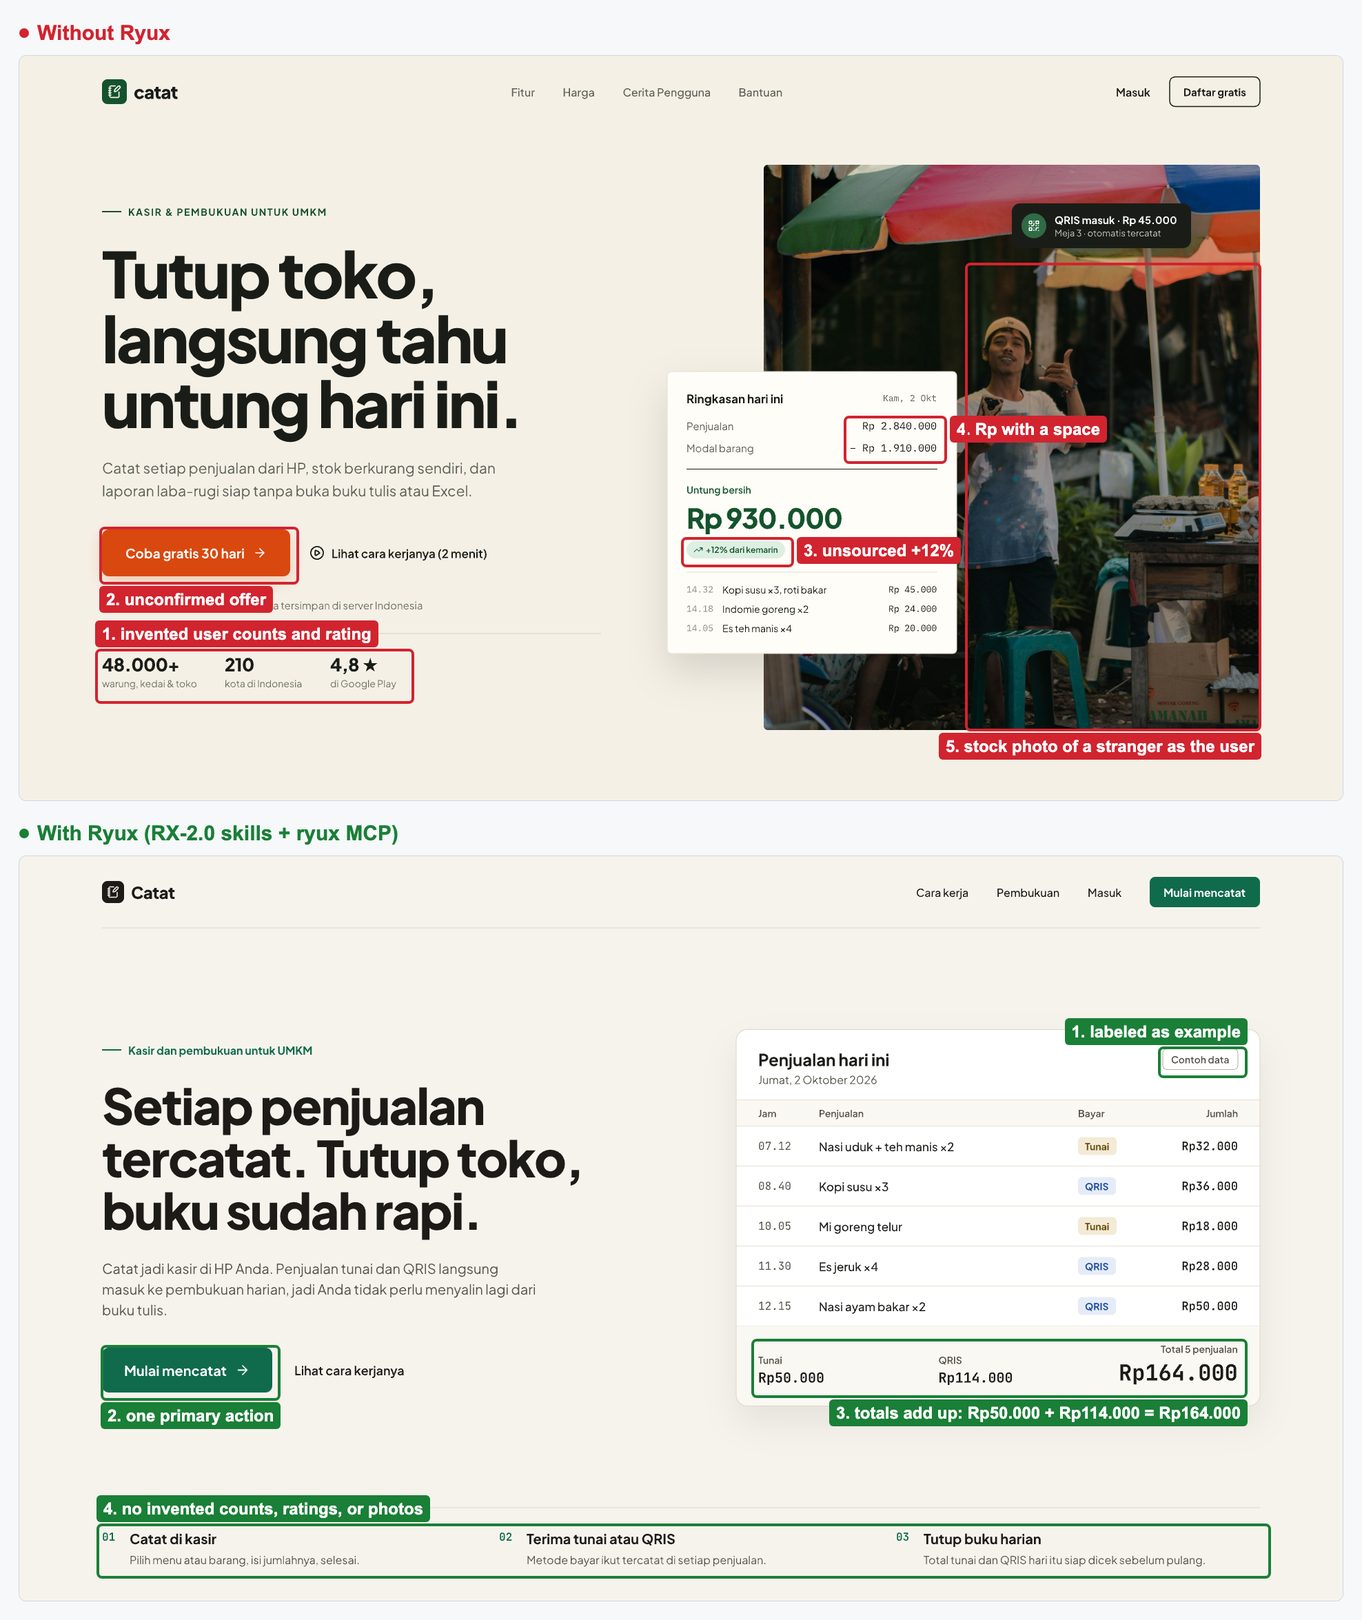
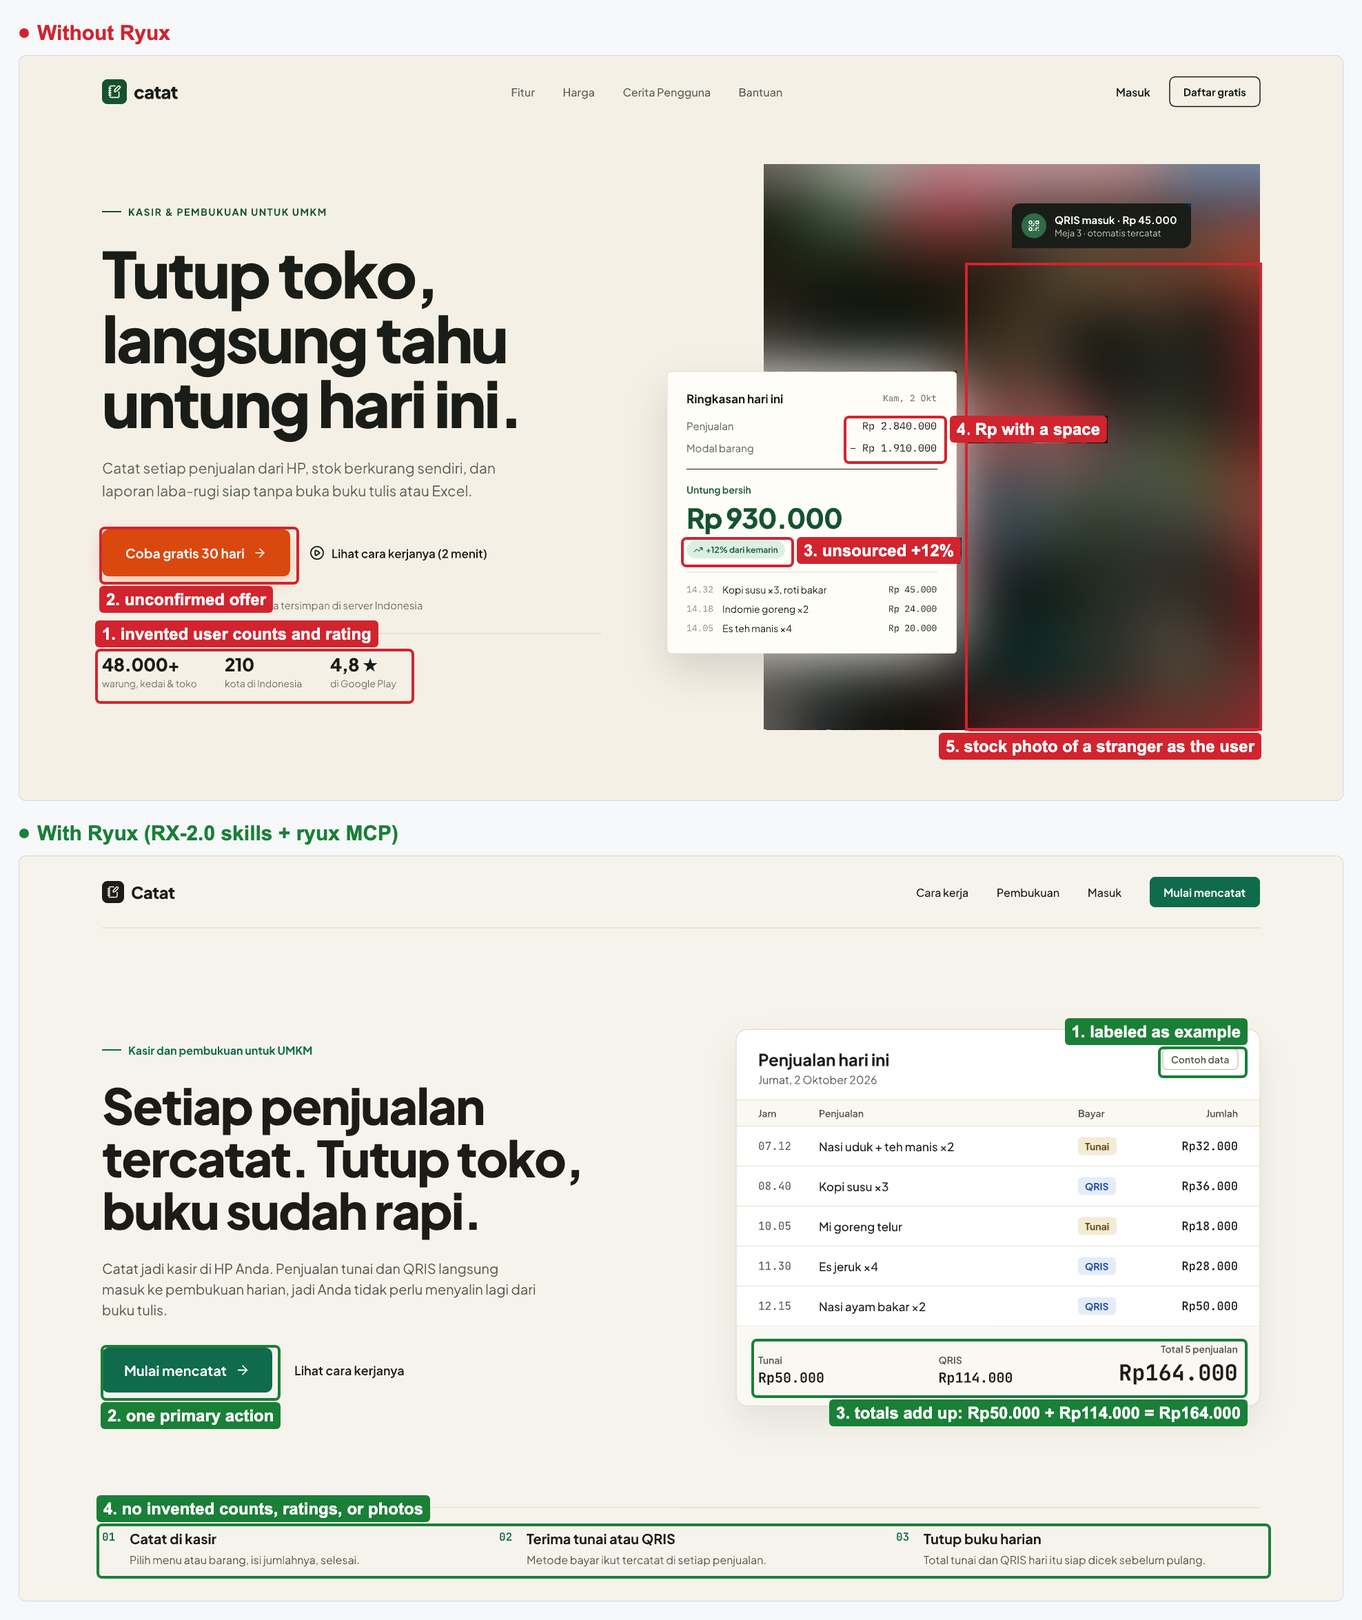
release: RYUX 2.4.1
- One status for the hosted MCP: not live yet. The CLI install note,
  generated SKILL.md, DESIGN.md context, agent pointer block, and GUIDE
  now give the local connect command instead of the dead hosted URL
- DEPLOY.md is a generic self-host guide: no ryux project names,
  domains, or editor SQL; adds a "before exposing the MCP publicly" gate
  (auth, rate limits, input limits, timeouts, logging, cost control)
- README: reference-data boundary (private data is not in the repo),
  asset provenance note, and a link to the self-host guide
- Blur a third-party stock photo of a person in
  assets/compare/ui/compare-id.png (source and license unknown)
- docs/ops.md (maintainer runbook) is gitignored

Changed region(s): [[0.5557, 0.0932, 0.9261, 0.466]]

diff --git a/packages/cli/src/cli/index.ts b/packages/cli/src/cli/index.ts
@@ -13,7 +13,7 @@ import {
   type PointerFile,
 } from "../adapters.js";
 import { ALL_INSTALLABLE_IDS } from "../intelligence/content.js";
-import { CLI_CMD, CONTEXT_END, CONTEXT_FILE, CONTEXT_START, MARK_START, MCP_ADD_CMD, VERSION } from "../product.js";
+import { CLI_CMD, CONTEXT_END, CONTEXT_FILE, CONTEXT_START, MARK_START, MCP_LOCAL_ADD_CMD, MCP_STATUS, VERSION } from "../product.js";
 import { validateBundle } from "../validate.js";
 import { renderAgentsBlock, renderBundle, renderPointerBlock, SKILL_NAME } from "../render.js";
 import { hasBlock, readIfExists, rel, removeBlock, removePath, upsertBlock, writeFileEnsured } from "./fsutil.js";
@@ -168,7 +168,7 @@ async function runInstall(flags: Flags): Promise<void> {
       required: true,
     });
     if (p.isCancel(a)) return cancel();
-    const m = await p.confirm({ message: "Show the ryux MCP connect command?", initialValue: false });
+    const m = await p.confirm({ message: "Show how to connect the ryux MCP?", initialValue: false });
     if (p.isCancel(m)) return cancel();
     agents = a as string[];
     showMcp = Boolean(m);
@@ -185,8 +185,8 @@ async function runInstall(flags: Flags): Promise<void> {
   else p.note(summary, "Installed");
 
   if (showMcp) {
-    if (nonInteractive) console.log(`\nMCP: ${MCP_ADD_CMD}`);
-    else p.note(MCP_ADD_CMD, "Connect the ryux MCP");
+    if (nonInteractive) console.log(`\nMCP: ${MCP_STATUS}`);
+    else p.note(MCP_STATUS, "ryux MCP");
   }
   if (!nonInteractive) p.outro(`Try: ${pc.cyan('"Critique this page: https://..."')}`);
 }
@@ -326,7 +326,7 @@ RYUX treats blanks as unknown instead of guessing.
 - **Audience**:
 - **Market and locale**: (for example Indonesia, id-ID, Rupiah; or global, en-US, USD)
 - **Brand and design system**: ${system.length ? system.map((x) => `\`${x}\``).join(", ") : ""}
-- **Evidence sources**: RYUX MCP (${MCP_ADD_CMD}), Figma files, reference URLs:
+- **Evidence sources**: RYUX MCP (hosted server not live yet; local: ${MCP_LOCAL_ADD_CMD}), Figma files, reference URLs:
 - **Constraints**: platforms, accessibility target (for example WCAG 2.2 AA), what must not change:
 - **Design intent**: (what users should understand, feel, and do)
 - **UX direction**:

diff --git a/packages/cli/src/render.ts b/packages/cli/src/render.ts
@@ -12,7 +12,7 @@ import {
   type Rule,
   type Skill,
 } from "./intelligence/content.js";
-import { MCP_ADD_CMD, VERSION } from "./product.js";
+import { MCP_LOCAL_ADD_CMD, VERSION } from "./product.js";
 import {
   CORE_CAPABILITIES,
   CORE_DECISION_RECORD,
@@ -127,7 +127,8 @@ ${CORE_HONESTY}
 ${CORE_DECISION_RECORD}
 
 Reference screens and structured review come from the ryux MCP (\`search_screens\`,
-\`heuristic_eval\`, \`delivery_gate\`). Connect: \`${MCP_ADD_CMD}\``;
+\`heuristic_eval\`, \`delivery_gate\`). The hosted server is not live yet; run it locally and connect:
+\`${MCP_LOCAL_ADD_CMD}\``;
 }
 
 function hardGatesBrief(): string {
@@ -236,7 +237,7 @@ export function renderPointerBlock(): string {
 RYUX is installed as one skill, \`ryux\`, in this project's agent skills folder. For UI, UX, copy, or
 frontend work, say what you are doing (analyze, design, build, critique, or QA); RYUX picks the
 knowledge it needs and ends with the Delivery Gate. Reference data and structured review come from
-the ryux MCP: \`${MCP_ADD_CMD}\`.`;
+the ryux MCP (hosted server not live yet; local: \`${MCP_LOCAL_ADD_CMD}\`).`;
 }
 
 // ── docs/design-rules.md generated sections ──────────────────────────────────

diff --git a/packages/cli/src/product.ts b/packages/cli/src/product.ts
@@ -8,6 +8,11 @@ export const VERSION: string = pkg.version;
 export const MCP_NAME = "ryux";
 export const MCP_URL = "https://mcp.ryux.design/mcp";
 export const MCP_ADD_CMD = `claude mcp add --transport http ${MCP_NAME} ${MCP_URL}`;
+/** Until the hosted MCP is live, every surface says so instead of printing a dead connect command. */
+export const MCP_LOCAL_ADD_CMD = `claude mcp add --transport http ${MCP_NAME} http://localhost:8787/mcp`;
+export const MCP_STATUS =
+  "The hosted ryux MCP is not live yet. RYUX works without it and rates evidence None. " +
+  `To run the server yourself, see https://github.com/ryuxdsgn/design-intelligence/tree/main/apps/mcp, then: ${MCP_LOCAL_ADD_CMD}`;
 export const CLI_CMD = "npx @ryuxdsgn/ryux";
 export const MARK_START = "<!-- ryux-rules:start -->";
 export const MARK_END = "<!-- ryux-rules:end -->";

diff --git a/DEPLOY.md b/DEPLOY.md
@@ -1,29 +1,31 @@
-# Deploying ryux
+# Running your own RYUX instance
+
+This guide sets up your own copy of the RYUX service: the database, the MCP server, and the website.
+You do not need any of it to use the RYUX skill. The hosted ryux.design MCP is not live yet (see
+[README](./README.md#status)).
 
 Three pieces ship independently: the Supabase database, the MCP server (Cloudflare Workers), and the
 website (Vercel). None of them need secrets in the repo. The `screen_id`-backed content only appears
 once Supabase has `published` rows; without env, the MCP falls back to the `@ryux/core` sample data.
 
-## Order of operations (nothing is deployed until step 1 is done)
+## Order of operations
 
-1. Register `ryux.design` and add the zone to Cloudflare.
-2. Restore the paused Supabase project `ryuxdesign` from the Supabase dashboard.
-3. Log in: `supabase login` (the account that owns the project) and `wrangler login`.
-4. Push the migrations (section 1). This is a production write; do it on purpose.
-5. Set the Worker secrets, uncomment the `mcp.ryux.design` route in `apps/mcp/wrangler.jsonc`,
-   and deploy (section 2).
-6. Set up the Knowledge editor and publish the first flows (section 4).
+1. Create a Supabase project and a Cloudflare zone for your domain.
+2. Log in: `supabase login` and `wrangler login`.
+3. Push the migrations (section 1). This is a production write; do it on purpose.
+4. Set the Worker secrets and deploy (section 2). Read "Before exposing the MCP publicly" first.
+5. Set up an editor account and publish your first flows (section 4).
 
 ## Prerequisites
 
 - Node 20+ and pnpm, `pnpm install` done.
-- Supabase CLI, logged in to the account that owns the cloud project.
+- Supabase CLI, logged in to the account that owns your project.
 - Wrangler (bundled), logged in to Cloudflare.
 - Vercel CLI or the Vercel dashboard.
 
 ## 1. Supabase (database)
 
-Link the local repo to the cloud project, push the migrations, and seed:
+Link the local repo to your project, push the migrations, and seed:
 
 ```bash
 supabase link --project-ref <your-project-ref>
@@ -32,10 +34,10 @@ supabase db push          # applies supabase/migrations/* (production write)
 psql "$SUPABASE_DB_URL" -f supabase/seed.sql
 ```
 
-RLS is on for every table from the first migration. Public/anon reads only see `published` content;
+RLS is on for every table from the first migration. Anonymous reads only see `published` content;
 the `waitlist` table accepts inserts but no public reads.
 
-Grab two values from Project Settings > API for the next steps:
+The next steps need two values from Project Settings > API:
 
 - `SUPABASE_URL` (the project URL)
 - `SUPABASE_ANON_KEY` (the anon/publishable key, safe to expose)
@@ -52,9 +54,23 @@ wrangler secret put SUPABASE_ANON_KEY
 cd ../.. && pnpm deploy:mcp
 ```
 
+To serve it on your own domain, add a route in `apps/mcp/wrangler.jsonc`
+(`"routes": [{ "pattern": "<mcp.your-domain>", "custom_domain": true }]`). The endpoint path is `/mcp`
+(Streamable HTTP), so connect through an MCP client, not a browser.
+
 Local dev uses `apps/mcp/.dev.vars` (gitignored) with the same two keys pointed at your local
-Supabase. The public endpoint is `https://mcp.ryux.design/mcp` (Streamable HTTP), so connect through
-an MCP client, not a browser.
+Supabase.
+
+### Before exposing the MCP publicly
+
+The MCP server in this repo is a starter: it has no login, and quotas are kept in memory. Keep the
+route off a public domain until it has:
+
+- authentication and authorization per client
+- rate limiting and abuse protection
+- input size limits and request timeouts
+- logging
+- cost control for any tool that calls a paid API
 
 ## 3. Website (Vercel)
 
@@ -64,9 +80,9 @@ environment variables (Production and Preview):
 - `SUPABASE_URL`
 - `SUPABASE_ANON_KEY`
 
-These are used server-side by the waitlist route (`/api/waitlist`), which inserts into `waitlist`
-via the anon key + the RLS insert policy. Without them the form returns a clear "not wired up yet"
-message instead of pretending to succeed. Deploy from the dashboard or:
+The waitlist route (`/api/waitlist`) uses them server-side. It inserts into `waitlist` with the anon
+key and the RLS insert policy. Without them the form returns a clear "not wired up yet" message
+instead of pretending to succeed. Deploy from the dashboard or:
 
 ```bash
 cd apps/web && vercel --prod
@@ -74,17 +90,12 @@ cd apps/web && vercel --prod
 
 ## 4. RYUX Knowledge pipeline (`pnpm knowledge`)
 
-The pipeline writes as an editor account through Supabase Auth and RLS (`is_staff()`). It never uses
-the service role key.
+The pipeline is open source; the reference data it produces is yours and stays out of git. It writes
+as an editor account through Supabase Auth and RLS (`is_staff()`). It never uses the service role
+key.
 
-**One-time editor setup.** Sign up the editor account once (dashboard > Authentication > Add user),
-then give it a staff role in the SQL editor:
-
-```sql
-insert into public.accounts (user_id, role)
-select id, 'admin' from auth.users where email = '<editor email>'
-on conflict (user_id) do update set role = 'admin';
-```
+**One-time editor setup.** Create the editor user in Supabase Auth, then give it a staff role
+(`admin` or `reviewer`) in `public.accounts`.
 
 **Local `.env` at the repo root** (gitignored):
 
@@ -94,7 +105,7 @@ SUPABASE_ANON_KEY=...
 RYUX_EDITOR_EMAIL=...
 RYUX_EDITOR_PASSWORD=...
 ANTHROPIC_API_KEY=...        # optional: AI draft tags and OCR
-RYUX_TAG_MODEL=claude-opus-5-5   # optional
+RYUX_TAG_MODEL=...           # optional
 ```
 
 **One flow per folder**, outside git (a `knowledge/` folder in the repo is gitignored):
@@ -125,28 +136,26 @@ published screens, never typed.
 
 Publish refuses until every screen has its personal-data check ticked, every tag is a known key, and
 the flow's designer notes (`why_it_works`, `weaknesses`) are written by a person. Unticked tags are
-removed, and kept tags become `source: human`. Images stay private: the MCP serves them as 15-minute
-signed URLs, and only for `published` screens.
+removed, and kept tags become `source: human`.
+
+Images live in a private bucket. Publishing is the gate: once a screen is `published`, its image can
+be read through the storage API, and the MCP hands it out as a 15-minute signed URL. Draft images
+stay private.
 
 **Local Supabase note.** With Supabase CLI 2.106, the bundled storage image drops the
 `(bucket_id, name)` unique index that its own upload query needs, so every upload fails with
 `42P10`. Update the CLI, or for local testing only, recreate the index as the storage owner:
 
 ```bash
-docker exec supabase_db_ryux psql -U supabase_admin -d postgres \
+docker exec supabase_db_<project_id> psql -U supabase_admin -d postgres \
   -c 'create unique index if not exists local_test_objects_bucket_name on storage.objects (bucket_id, name);'
 ```
 
-## DNS
-
-- `ryux.design` -> the Vercel project.
-- `mcp.ryux.design` -> the Cloudflare Worker route.
-
 ## Checklist
 
-- [ ] Migrations applied to the cloud project; RLS verified.
+- [ ] Migrations applied; RLS verified.
 - [ ] MCP secrets set; `pnpm deploy:mcp` succeeds; a tool call returns `published` data.
+- [ ] The public-exposure list above is done before the MCP route goes on a public domain.
 - [ ] Web env vars set; the waitlist form saves a row.
-- [ ] Both domains resolve.
 - [ ] Editor account has a staff role; `pnpm knowledge publish` publishes a first flow.
-- [ ] `search_screens` on `mcp.ryux.design` returns a signed `image_url` that loads.
+- [ ] `search_screens` returns a signed `image_url` that loads.

diff --git a/docs/showcase.md b/docs/showcase.md
@@ -549,13 +549,16 @@ screens.
 *"A 1920×1080 landing page for Catat, a cashier and bookkeeping app for Indonesian UMKM."* Both runs
 designed in pen.dev through its MCP. The "with" run also had the ryux MCP for reference screens.
 
-<a href="../assets/compare/ui/compare-id.png"><img src="../assets/compare/ui/compare-id.png" alt="Two Catat landing pages designed in pen.dev, stacked. Without RYUX: a polished hero with invented stats (48.000+ warung, 210 kota, 4,8 stars on Google Play), an unconfirmed 30-day trial, an unsourced +12% growth tag, amounts written as Rp 2.840.000 with a space, and a stock photo of a stranger presented as the user. With RYUX: one primary action, a sales ledger labeled Contoh data whose cash and QRIS totals add up to Rp164.000, and a plain three-step strip with no invented counts, ratings, or photos" width="100%"></a>
+<a href="../assets/compare/ui/compare-id.png"><img src="../assets/compare/ui/compare-id.png" alt="Two Catat landing pages designed in pen.dev, stacked. Without RYUX: a polished hero with invented stats (48.000+ warung, 210 kota, 4,8 stars on Google Play), an unconfirmed 30-day trial, an unsourced +12% growth tag, amounts written as Rp 2.840.000 with a space, and a stock photo of a stranger presented as the user (blurred here). With RYUX: one primary action, a sales ledger labeled Contoh data whose cash and QRIS totals add up to Rp164.000, and a plain three-step strip with no invented counts, ratings, or photos" width="100%"></a>
 
 Both look finished, and that is the trap. Without RYUX, the polish hides invented numbers, a borrowed
 face, and the wrong Rupiah format (RX-AS-01, RX-AS-02, RX-CD-02). With RYUX, there is one primary
 action (RX-PR-03), the sample data is labeled and adds up (RX-AS-03, RX-QA-04), and the agent closed
 with a Delivery Gate that marked its own gap honestly: only the 1920 frame was drawn, so RESPONSIVE
 was reported as FAIL.
+
+The stock photo in the "without" design is blurred in this image: the agent pulled it in during the
+run, and its source and license are unknown.
 
 #### Code
 

diff --git a/README.md b/README.md
@@ -123,6 +123,12 @@ today (`pnpm dev:mcp`). The hosted server at `mcp.ryux.design` is not live yet.
 
 The [guide](GUIDE.md) covers other agents, global installs, updates, and the MCP setup.
 
+### Reference data
+
+RYUX may use reference screens and product evidence during analysis. Private reference data is not
+included in this repository. The open-source repository contains the schemas, rules, and tooling used
+to work with evidence, not private source material.
+
 <details>
 <summary><b>Technical details</b></summary>
 
@@ -162,6 +168,7 @@ pnpm typecheck
 - [GUIDE.md](GUIDE.md): install, MCP, and how RYUX reasons
 - [docs/design-rules.md](docs/design-rules.md): every rule, level, and gate
 - [docs/showcase.md](docs/showcase.md): the proof, every raw run, and the history
+- [DEPLOY.md](DEPLOY.md): run your own instance (database, MCP server, website)
 
 </details>
 
@@ -178,3 +185,7 @@ To report a vulnerability, see [SECURITY.md](./SECURITY.md).
 
 **MIT**, © 2026 ryux.design (see [LICENSE](./LICENSE)). The code and the RYUX skill are covered by
 this license. The reference data and the hosted service are separate.
+
+Assets in this repository are synthetic outputs and illustrations created for RYUX experiments and
+its website, unless otherwise noted. Brand names may appear as text in mock interfaces and do not
+indicate affiliation.

diff --git a/skills/ryux/SKILL.md b/skills/ryux/SKILL.md
@@ -5,7 +5,7 @@ description: "RYUX - design intelligence for AI agents and designers. Tell it wh
 
 # RYUX
 
-> Design intelligence for AI agents and designers. RYUX 2.4.0, MIT licensed.
+> Design intelligence for AI agents and designers. RYUX 2.4.1, MIT licensed.
 
 RYUX is a design intelligence layer for AI and designers. It helps understand, reason, design,
 build, critique, and verify interfaces using design knowledge and evidence. It is not a UI
@@ -175,4 +175,5 @@ For consequential choices (RX-PR-09) and deviations, write **Decision**, **Optio
 or None (no screen_id: a judgment call). With None on a consequential choice, show options or ask (RX-PR-10).
 
 Reference screens and structured review come from the ryux MCP (`search_screens`,
-`heuristic_eval`, `delivery_gate`). Connect: `claude mcp add --transport http ryux https://mcp.ryux.design/mcp`
+`heuristic_eval`, `delivery_gate`). The hosted server is not live yet; run it locally and connect:
+`claude mcp add --transport http ryux http://localhost:8787/mcp`

diff --git a/GUIDE.md b/GUIDE.md
@@ -50,18 +50,17 @@ npx skills add ryuxdsgn/design-intelligence     # alternative: skills.sh, any ag
 
 ## 2. Connect to MCP (reference data)
 
-The RYUX rules are at their strongest when your agent can pull real evidence. Connect the RYUX MCP:
-
-```bash
-claude mcp add --transport http ryux https://mcp.ryux.design/mcp
-```
-
-For local development, run the server yourself:
+The RYUX rules are at their strongest when your agent can pull real evidence. The hosted MCP
+(`mcp.ryux.design`) is not live yet. RYUX works without it and rates evidence None. To use the MCP
+now, run the server yourself from this repo and connect to it:
 
 ```bash
 pnpm install
 pnpm dev:mcp        # http://localhost:8787/mcp
+claude mcp add --transport http ryux http://localhost:8787/mcp
 ```
+
+Without Supabase env, the local server serves the bundled sample data, not the reference library.
 
 Connect through an MCP client (Claude Code, MCP Inspector), not a regular browser (the endpoint
 uses the Streamable HTTP transport).

diff --git a/skills/ryux/knowledge/anti-slop.md b/skills/ryux/knowledge/anti-slop.md
@@ -2,7 +2,7 @@
 
 Stops generic AI output before it ships: no invented numbers or people, decoration with a purpose, and honest claims.
 
-> Group Quality · Delivery Gate area ANTI-SLOP · RYUX 2.4.0. Levels are defined in `SKILL.md`.
+> Group Quality · Delivery Gate area ANTI-SLOP · RYUX 2.4.1. Levels are defined in `SKILL.md`.
 
 Anti-slop runs last, after design, build, critique, and QA; it is the final quality gate, never the
 starting point. Anti-slop is the floor, not the ceiling: a tidy, generic surface still fails on expressive

diff --git a/skills/ryux/knowledge/ui.md b/skills/ryux/knowledge/ui.md
@@ -2,7 +2,7 @@
 
 Gives a product a visual point of view: hierarchy, type, layout, color, imagery, art direction, and motion that communicate instead of decorate.
 
-> Group UI · Delivery Gate area UI · RYUX 2.4.0. Levels are defined in `SKILL.md`.
+> Group UI · Delivery Gate area UI · RYUX 2.4.1. Levels are defined in `SKILL.md`.
 
 **Visuals are not decoration. They are communication.** RYUX UI owns the visual expression of
 a product: what each visual decision communicates, why it exists, and how it behaves. Functional UI

diff --git a/skills/ryux/knowledge/content.md b/skills/ryux/knowledge/content.md
@@ -2,7 +2,7 @@
 
 Writes interface copy that is specific and human: action labels, error messages, terminology, and money and dates in the right locale.
 
-> Group UX · Delivery Gate area UX · RYUX 2.4.0. Levels are defined in `SKILL.md`.
+> Group UX · Delivery Gate area UX · RYUX 2.4.1. Levels are defined in `SKILL.md`.
 
 Content is interface: labels, CTAs, errors, empty states, confirmations, helper text, terminology,
 numbers, dates, currency, and localization are all designed, not filled in last. Write them

diff --git a/skills/ryux/capabilities/qa.md b/skills/ryux/capabilities/qa.md
@@ -2,7 +2,7 @@
 
 Verifies the build against the intended design: render it, list every deviation, fix, and render again.
 
-> Group Quality · Delivery Gate area VISUAL QA · RYUX 2.4.0. Levels are defined in `SKILL.md`.
+> Group Quality · Delivery Gate area VISUAL QA · RYUX 2.4.1. Levels are defined in `SKILL.md`.
 
 Visual QA asks one question: **did the implementation match the intended design?** Whether the
 design itself is good is Critique's question (`capabilities/critique.md`).
